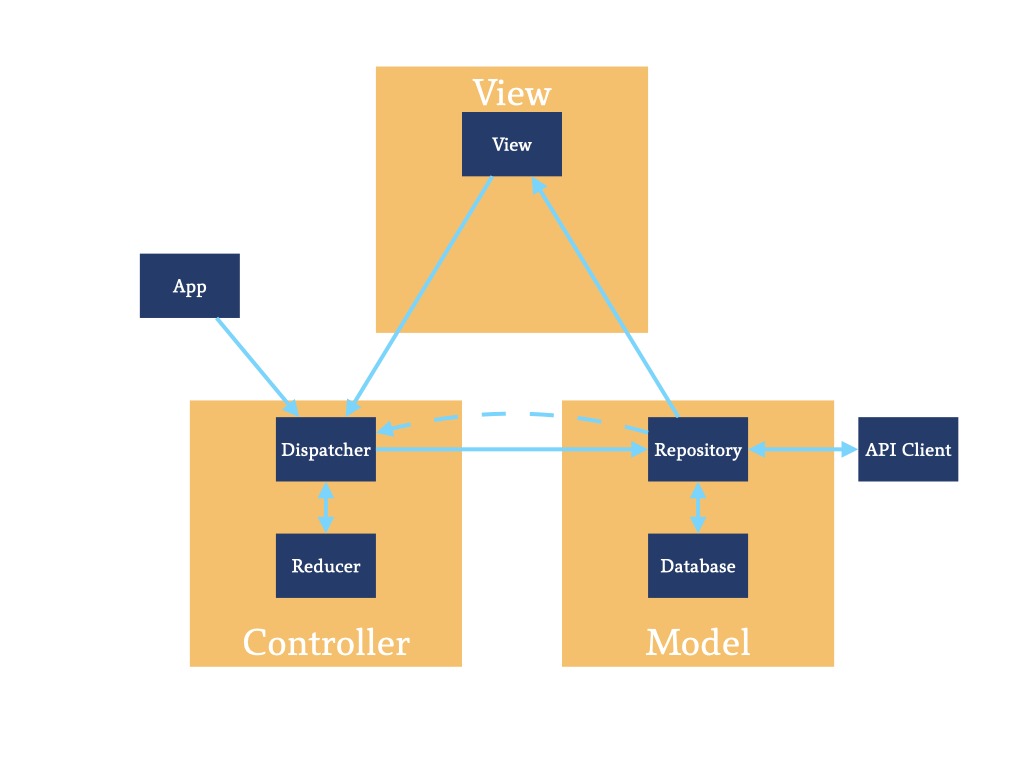
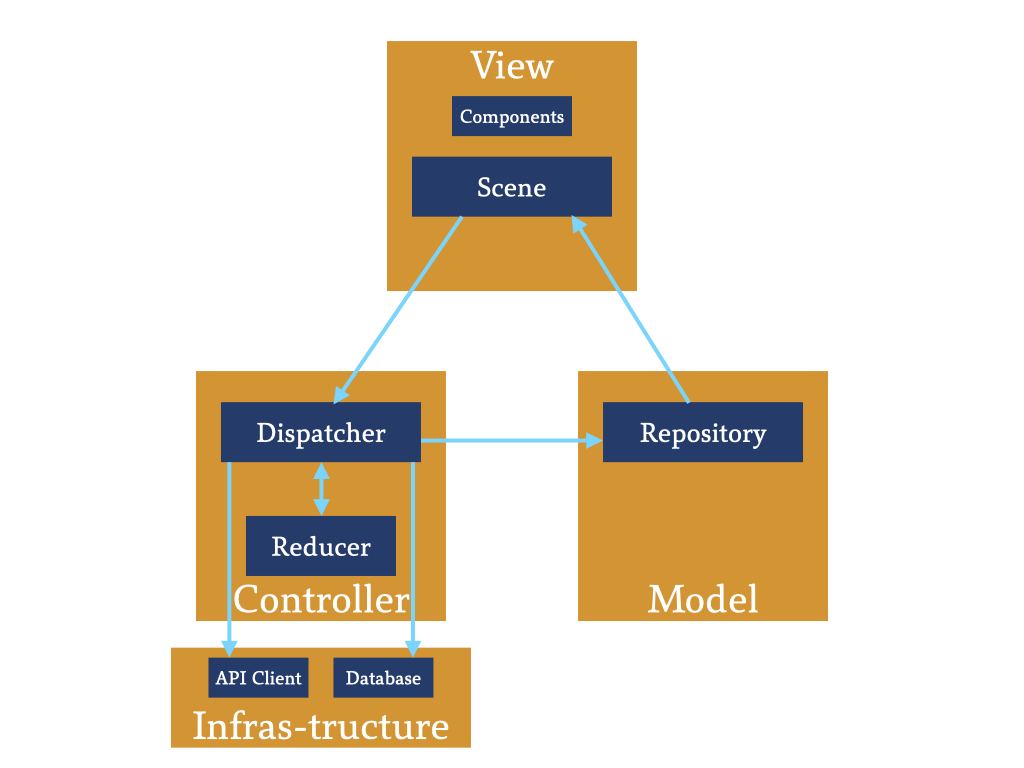
Update README

diff --git a/README.md b/README.md
@@ -1,16 +1,16 @@
-# ViDRep-Sample
+# ViDRep-Sample (Name subject to change)
 
-ViDRep[^name] is an experimental architecture designed for SwiftUI.
+ViDRep<a id="q_name" href= "#a_name"><sup>1</sup></a> is an experimental architecture designed for SwiftUI.
 
-[^name]: The correct spell is `ViDRep`, but case-mistakes like `Vidrep` or `vidrep` are also acceptable.
+This is a sample project to show how to build an app using ViDRep. With this sample app, you're able to generate some cat images with any text (fewer than 10 characters) on it, and if you like that picture you can also save it to your device. Big thanks to [Cataas](https://cataas.com/) :smiling_face_with_three_hearts:
 
-This is a sample project to show how to build an app using ViDRep.
+![Sample App Screen](README_Images/CatSaysHi.gif)
 
 ## Why another new architecture?
 
 Apple introduced SwiftUI in 2019, which could be considered as the replacement of the legacy UIKit framework. But unlike UIKit which has Cocoa-MVC as the recommended architecture, SwiftUI doesn't have any *Official* architecture so far.
 
-There are already many architectures that can be used with SwiftUI, like MVVM, VIPER, Redux, SwifTEA, etc., but unfortunately there isn't a killer-architecture yet, all the architectures above has some drawbacks. For instance a traditional MVVM relies heavily on bidirectional data-binding, which is hard to read or maintain; VIPER is a good choice if you have a huge project or you're working with a big team, but obviously over-kill for small projects; Redux is also a good choice because it shares the same **Single Source of Truth** princeple with SwiftUI, but it also requires too many components which makes it hard to master.
+There are already many architectures that can be used with SwiftUI, like MVVM, VIPER, Redux, SwifTEA, TCA, etc., but unfortunately there isn't a killer-architecture yet, all the architectures above has some drawbacks. For instance a traditional MVVM relies heavily on bidirectional data-binding, which is hard to read or maintain; VIPER is a good choice if you have a huge project or you're working with a big team, but obviously over-kill for small projects; Redux is also a good choice because it shares the same **Single Source of Truth** princeple with SwiftUI, but it also requires too many components which makes it hard to master. So far TCA is becoming more and more popular, but it requires additional library.
 
 So I decided to create a new architecture when working on my next SwiftUI project, with goals below:
 
@@ -28,11 +28,11 @@ So I decided to create a new architecture when working on my next SwiftUI projec
 
 4. Testable
 
-    No dounts how important unit tests are. So definitely components holding business logics must be designed to be easy to test.
+    No doubts how important unit tests are. So definitely components holding business logics must be designed to be easy to test.
 
 5. Scalable
 
-    The scale of projects may change in the future, so it'd be nice if the architecture is scalable.
+    The scale of projects may change in the future, so it'd be nice if the architecture has some scalability.
 
 ## Introducing ViDRep
 
@@ -40,51 +40,45 @@ ViDRep is the architecture come out to achieve the goals above. I'll explain how
 
 ![ViDRep diagram 1](README_Images/ViDRep.001.png)
 
-You may notice that ViDRep looks just like an MVC (**not** CocoaMVC) pattern. That's because it IS inspired by the original MVC pattern, and it works just like the original MVC pattern: A view fires an action, the controller handles that action and updates the data model, and the data model's update triggers the view's re-rendering. It's a powerful yet very simple pattern.
+You may notice that ViDRep looks just like an MVC (**NOT** CocoaMVC) pattern. That's because it IS inspired by the original MVC pattern, and it works just like the original MVC pattern: A view fires an action, the controller handles that action and updates the data model, and the data model's update triggers the view's re-rendering. It's a powerful yet very simple pattern.
 
-But if dig deeper you'll find it's not quite the same as the original MVC. In the original MVC pattern, it's controller who fires the action, and it's model itself who handles the action. Let me explain it later.
+But if dig deeper you'll find it's not quite the same as the original MVC. In the original MVC pattern, it's controller who fires the action, and it's model itself who handles the action.
 
 Also if you have experiences on Redux you may find familiar on the names like `Dispatcher` and `Reducer`, which have never appeared on a traditional MVC pattern. Actually this is also where `ViDRep` come from. `Vi` stands for `View`, `D` stands for `Dispatcher`, and `Rep` stands for `Repository`.
 
-Sometimes a component other than a `View` may also want to observe the data model updates, e.g. a global logger held by the app. For that situation you may consider `App` also as a View, then the diagram becomes like this, but the data flow is still unidirectional.
-
-![ViDRep diagram 2](README_Images/ViDRep.002.png)
-
 So, what do all the components do in ViDRep?
 
-### View
+### ~~View~~Scene
 
-`View` obviously is just a `SwiftUI.View` component. It only describes how a view should be rendered. It may also fire some actions from interactive components like buttons, but it doesn't control how that action should change the data models.
+Under View layer there are 3 types of components: Scenes, ViewComponents and ViewModifiers. ViewModifiers are just `SwiftUI.ViewModifier`s. A Scene is a whole page diplayed in your window, and ViewComponents are elements in that scene, like a `Button`. Both Scenes and ViewComponents are `SwiftUI.View`s
 
-`View` will have 2 types of dependencies: a `Dispatcher` and a `Repository`. `Dispatcher` should handle possible actions that may be fired from the view, and `Repository` should present the data required by the view. It should also be `ObservableObject` so `View` can know when to update the rendering.
+All types under View layer only describes how a view should be rendered. Some of them may also fire actions, like buttons, but they don't control how the action should change the data models.
+
+A `Scene` will have 2 types of dependencies: a `Dispatcher` and a `Repository`. `Dispatcher` should handle possible actions that may be fired from the view, and `Repository` should present the data required by the view. It should also be `ObservableObject` so `View` can know when to update the rendering.
+
+In addition, it's not represented in the graph above but it may also have a `RouterDelegate` if you wish to leave routing process to a `Router`.
 
 ### Dispatcher
 
-`Dispatcher` should handle events fired from a `View`, by asking the reducer to generate a new data (or a state if you're familiar with Redux) from given event, and then stores the new data into `Repository`. If needed `Dispatcher` may also directly get required data from `Repository` when the given event doesn't contain all required information, this is why on the diagram above there's a dotted line between `Dispatcher` and `Repository`.
+A `Dispatcher` should handle events fired from a `Scene`, by asking the reducer to generate a new data (or a state if you're familiar with Redux) from given event, and then stores the new data into `Repository`.
 
-`Dispatcher` might be `ObservableObject` if wants to use it as `@EnvironmentObject`, but it should be stateless.
+A `Dispatcher` may have 4 types of dependencies: a `Reducer`, a `Repository`, an `APIClient` and a `Database`. `Reducer`s should generate new data from given data and action, or on other words, should handle the business logic with pure functions. A `Repository` should be able to store the new data. `APIClient` and `Database` are also held by `Dispatcher`s because they're not considered as the *Source of Truth*. As the result, handling data from them are `Dispatcher`s' responsibility.
 
-`Dispatcher` will also have 2 types of dependencies: a `Reducer` and a `Repository`. `Reducer` should generate a new data from given data and action, or on other words, should handle the business logic. `Repository` should be able to store the new data.
-
-If the business logics are too simple, or the scale of the project/team is too small, you may also choose to contain the reducer logics inside the `Dispatcher` to get rid of the `Reducer`. This could make writing unit tests a tiny little bit difficult comparing with having the independent `Reducer` component, but it takes much fewer lines of code on the other hand.
+If the business logics are too simple, or the scale of the project/team is too small, you may also choose to contain the reducer logics, network logics and persistance logics inside the `Dispatcher` to get rid of `Reducer` `APIClient` and `Database`. This could make writing unit tests a tiny little bit difficult comparing with having the independent `Reducer` component, but it takes much fewer lines of code on the other hand.
 
 ### Reducer
 
-`Reducer` should handle the business logics by generating new data from given data and action. A `Reducer` should be pure functions with no states or side effects, so it'd be very easy to write unit tests.
+A `Reducer` should handle the business logics by generating new data from given data and action. A `Reducer` should be pure functions with no states or side effects, so it'd be very easy to write unit tests.
 
 `Reducer` should have no dependencies. This also makes it easy to write unit tests since you don't need any mock components.
 
 ### Repository
 
-`Repository` should just store data from `Dispatcher`. It may also read/write data into `Database` for those need persistence, and get/post data to servers via `APIClient`. But it shouldn't contain any business logic, because a stateful object is difficult to test. It should just store the data as-is.
+A `Repository` is the app's `Single Source of Truth`. It should just store data from `Dispatcher`, and should just store the data as-is, and there should be only **ONE SINGLE** repository.
 
-`Repository` should also be `ObservableObject` so a `View` can get notified when some data will change.
+`Repository` should be `ObservableObject` so a `View` can get notified when some data will change.
 
-And just like `Dispatcher`, if the scale of the project/team is too small, you may also choose to contain the database logics inside the `Repository`.
-
-`Repository` is the source of truth in the project, therefore it should be only **ONE SINGLE** repository.
-
-`Repository` may have 2 types of dependencies if needed: a `Database` and an `APIClient`.
+`Repository` should have no dependencies.
 
 ### Database
 
@@ -97,6 +91,16 @@ And just like `Dispatcher`, if the scale of the project/team is too small, you m
 `APIClient` is the component communicating with servers to get/post data. Since it's basically working asynchronously, asynchronous event handling libraries like `Combine` or `PromiseKit` may be helpful, but you may still choose callbacks to handle the asynchronous data process.
 
 `APIClient` should have no dependences.
+
+### Router
+
+`Router` isn't appeared in the graph above, it's optional that you may choose wether or not to have a `Router`. In this sample project routings are managed by a `Router`.
+
+A typical SwiftUI design is not easy to manage all routing logics outside a `View`, but with some workarounds it is possible. Please check [this repo](https://github.com/el-hoshino/SwiftUI-RouterDemo) to find out how it works.
+
+### Resolver
+
+`Resolver` isn't appeared in the graph either, and it's also optional. If you choose to make one, it should handle all the DIs in your project. In this sample project all components are generated by a `Resolver`.
 
 ## Why ViDRep
 
@@ -120,10 +124,16 @@ Now let's see how this `ViDRep` achieves the goal I listed above.
 
 5. Scalable
     
-    Unlike Redux or VIPER, some components in ViDRep are not essential, e.g. `Reducer` and `Database`. And even if you choose not to make a `Reducer`, business logics in `Dispatcher`s are still not difficult to test.
+    Unlike Redux or VIPER, some components in ViDRep are not essential, e.g. `Reducer`s and `Database`s. And even if you choose not to make a `Reducer`, business logics in `Dispatcher`s are still not difficult to test.
 
 ## Any disadvantages?
 
 Every architecture has its own disadvantages, and ViDRep is not excluded. One of the big disadvantages is that since it should only have one single `Repository`, if there are too many states held by app, the `Repository` may become massive.
 
 Another issue you may meet is if you have complex presentation logics, your `View` may become fat since ViDRep isn't designed to have a `ViewModel`. You may still create a `ViewModel` if you like, but 1) if your `ViewModel` only handles the data sent from `Repository`, `View` won't have the original data type, and that may have difficulty when trying to send actions with data to `Dispatcher`; and 2) if your `ViewModel` handles both data sent from `Repository` and data sent to `Dispatcher` that means you're having a bidirectional data binding between `View` and `ViewModel`, which you may need cautious when handling the data flow.
+
+## Notes
+
+<ul>
+<li id="a_name"><a href="#q_name">1:</a> The correct spell is `ViDRep`, but case-mistakes like `Vidrep` or `vidrep` are also acceptable. Anyway `ViDRep` is just a tentative name.</li>
+</ul>
